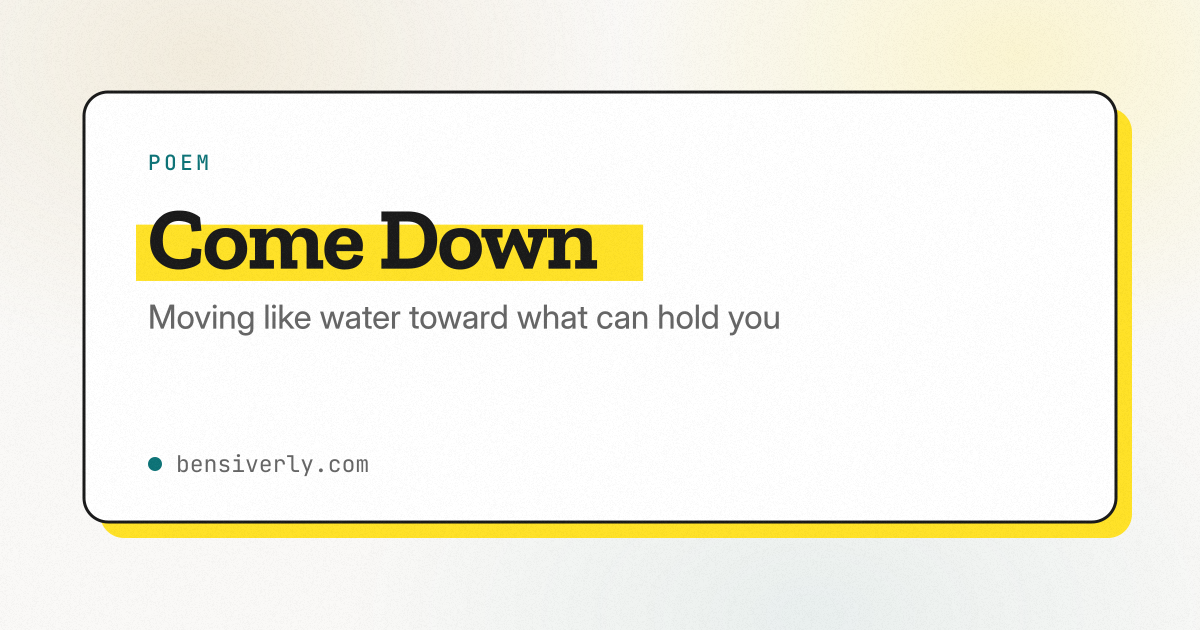
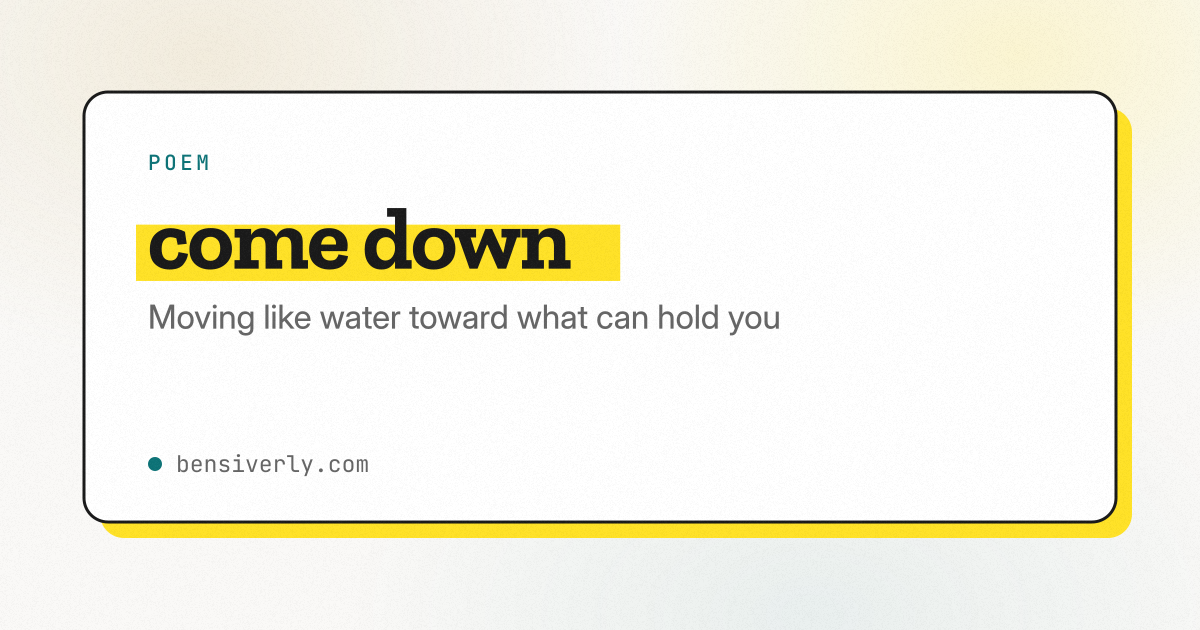
Add poem 'milk' and lowercase all poem titles (#97)

Changed region(s): [[0.1233, 0.3317, 0.555, 0.4524]]

diff --git a/writings.html b/writings.html
@@ -556,7 +556,21 @@
 
         <article class="poem-item">
           <header class="poem-item-header">
-            <h2 class="poem-card-title"><a href="hot-pig-summer.html">Hot pig summer</a></h2>
+            <h2 class="poem-card-title"><a href="milk.html">milk</a></h2>
+            <span class="poem-card-date">2026</span>
+          </header>
+          <p class="poem-card-excerpt">The deal is three hours.
+She sleeps. I take the kids.
+The kitchen was already mine.</p>
+          <a class="poem-read-more" href="milk.html">
+            <span>Read</span>
+            <span aria-hidden="true">&rarr;</span>
+          </a>
+        </article>
+
+        <article class="poem-item">
+          <header class="poem-item-header">
+            <h2 class="poem-card-title"><a href="hot-pig-summer.html">hot pig summer</a></h2>
             <span class="poem-card-date">2026</span>
           </header>
           <p class="poem-card-excerpt">Straw goes up fast.
@@ -583,7 +597,7 @@ I am not naturally a person who leaves space.</p>
 
         <article class="poem-item">
           <header class="poem-item-header">
-            <h2 class="poem-card-title"><a href="come-down.html">Come Down</a></h2>
+            <h2 class="poem-card-title"><a href="come-down.html">come down</a></h2>
             <span class="poem-card-date">2025</span>
           </header>
           <p class="poem-card-excerpt">I was high for years

diff --git a/generate-og-images.js b/generate-og-images.js
@@ -403,7 +403,7 @@ const pages = [
     outputPath: './images/og-nobody-claps.png',
   },
   {
-    title: 'Come Down',
+    title: 'come down',
     subtitle: 'Moving like water toward what can hold you',
     eyebrow: 'Poem',
     accentColor: tokens.teal,
@@ -412,7 +412,7 @@ const pages = [
     outputPath: './images/og-come-down.png',
   },
   {
-    title: 'Hot pig summer',
+    title: 'hot pig summer',
     subtitle: 'Straw houses, a hard winter, the compost pile',
     eyebrow: 'Poem',
     accentColor: tokens.teal,
@@ -428,6 +428,15 @@ const pages = [
     washes: literaryWashes,
     seed: 2425,
     outputPath: './images/og-the-room-love-needs-to-breathe.png',
+  },
+  {
+    title: 'milk',
+    subtitle: 'Three borrowed hours, a kitchen full of kids',
+    eyebrow: 'Poem',
+    accentColor: tokens.teal,
+    washes: literaryWashes,
+    seed: 2829,
+    outputPath: './images/og-milk.png',
   },
 ];
 

diff --git a/come-down.html b/come-down.html
@@ -3,24 +3,24 @@
 <head>
   <meta charset="UTF-8">
   <meta name="viewport" content="width=device-width, initial-scale=1.0">
-  <title>Come Down — Ben Siverly</title>
+  <title>come down — Ben Siverly</title>
   <meta name="description" content="A poem about the high of being a high-performer, and learning to move like water toward what can hold you. By Ben Siverly.">
 
   <!-- Open Graph -->
-  <meta property="og:title" content="Come Down — Ben Siverly">
+  <meta property="og:title" content="come down — Ben Siverly">
   <meta property="og:description" content="A poem about the high of being a high-performer, and learning to move like water toward what can hold you.">
   <meta property="og:type" content="article">
   <meta property="og:url" content="https://bensiverly.com/come-down.html">
   <meta property="og:image" content="https://bensiverly.com/images/og-come-down.png">
   <meta property="og:image:width" content="1200">
   <meta property="og:image:height" content="630">
-  <meta property="og:image:alt" content="Come Down — a poem by Ben Siverly">
+  <meta property="og:image:alt" content="come down — a poem by Ben Siverly">
   <meta property="article:published_time" content="2025">
   <meta property="article:author" content="Ben Siverly">
 
   <!-- Twitter Card -->
   <meta name="twitter:card" content="summary_large_image">
-  <meta name="twitter:title" content="Come Down — Ben Siverly">
+  <meta name="twitter:title" content="come down — Ben Siverly">
   <meta name="twitter:description" content="A poem about the high of being a high-performer, and learning to move like water toward what can hold you.">
   <meta name="twitter:image" content="https://bensiverly.com/images/og-come-down.png">
 
@@ -37,7 +37,7 @@
   {
     "@context": "https://schema.org",
     "@type": "CreativeWork",
-    "name": "Come Down",
+    "name": "come down",
     "genre": "Poetry",
     "description": "A poem about the high of being a high-performer, and learning to move like water toward what can hold you.",
     "inLanguage": "en",
@@ -284,7 +284,7 @@
   <main id="main">
     <article class="poem-page">
       <p class="poem-eyebrow">Poetry</p>
-      <h1 class="poem-title">Come Down</h1>
+      <h1 class="poem-title">come down</h1>
       <div class="poem-body">I was high for years
 
 High-performer. High-potential.